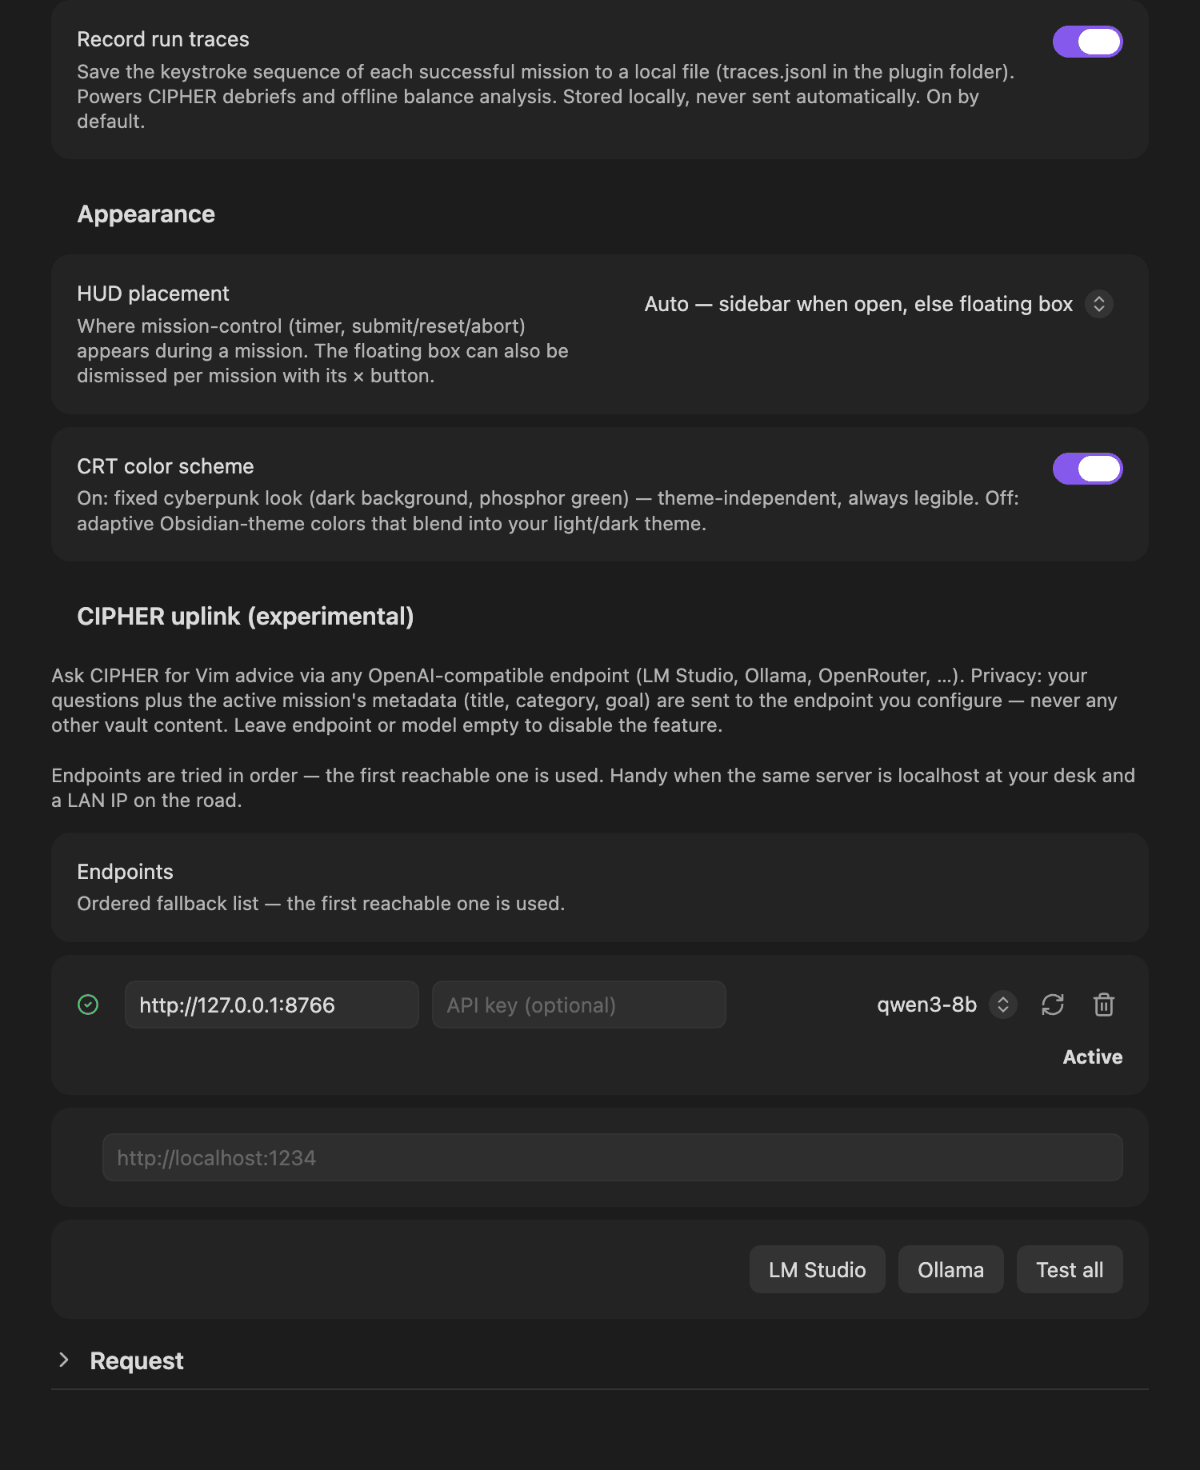
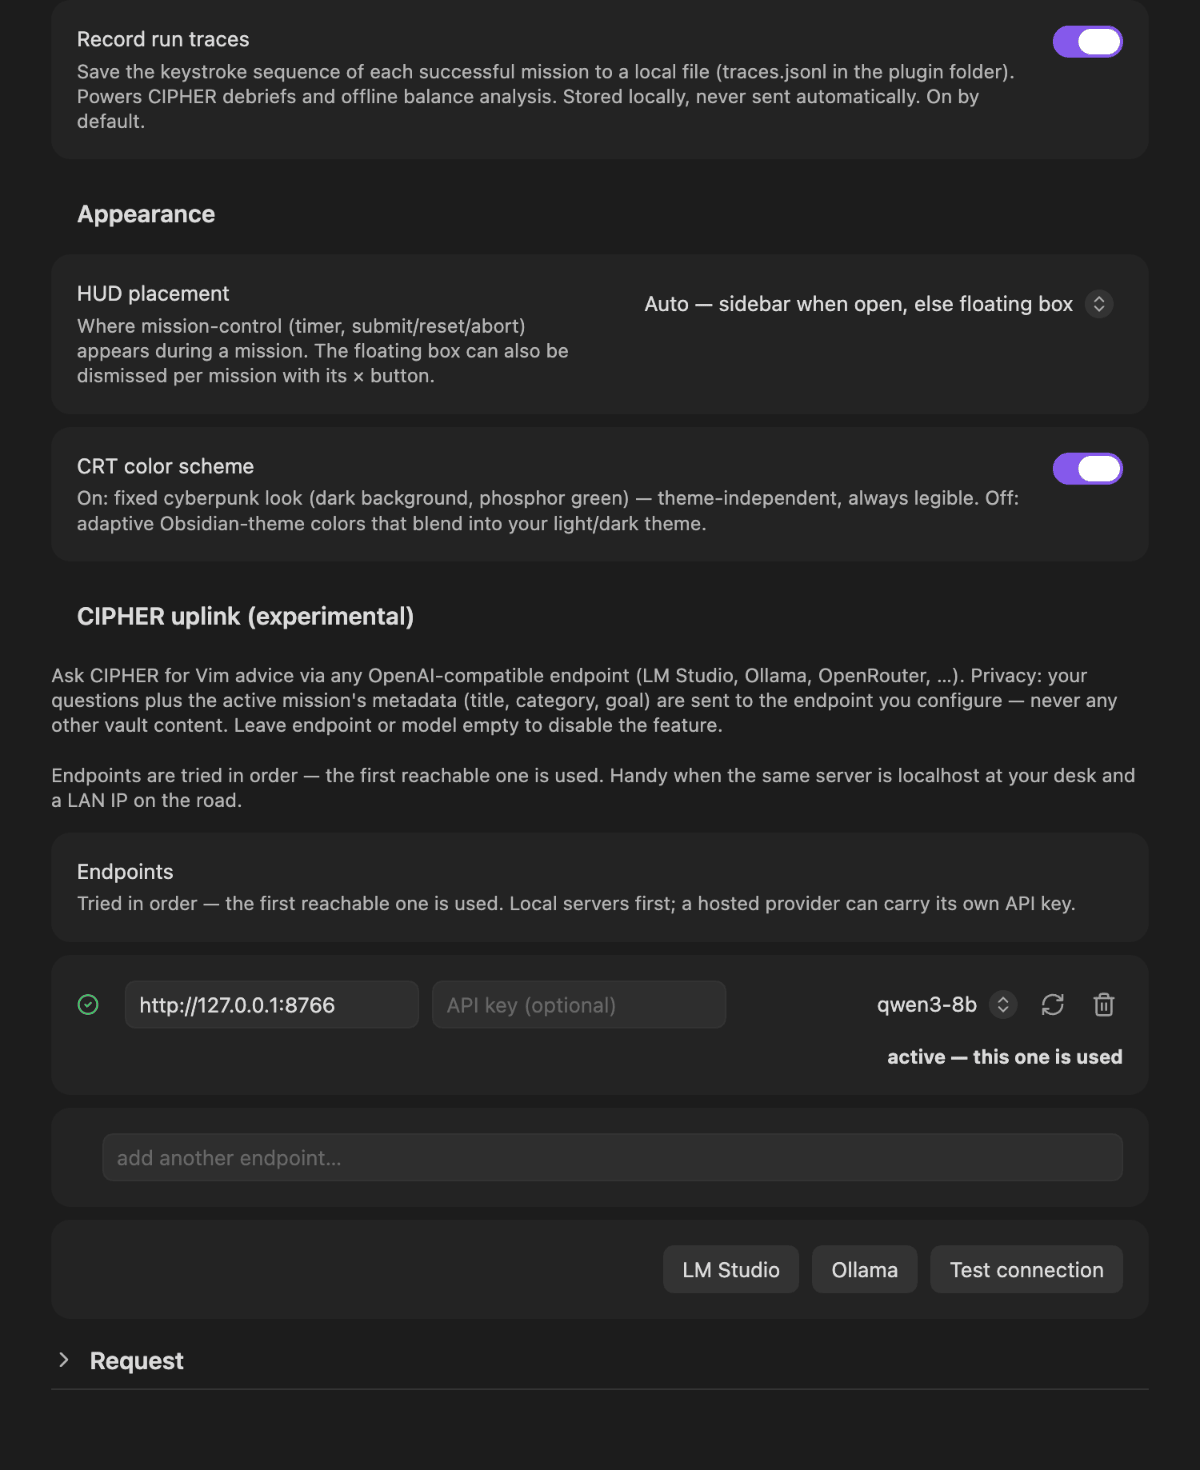
docs(readme): settings.png nach dem Verbindungs-Tausch neu aufgenommen, effectiveModel-Verweise bereinigt

diff --git a/test/settings.test.ts b/test/settings.test.ts
@@ -32,8 +32,8 @@ describe('LLM settings', () => {
   });
 
   it('stays unconfigured when even one endpoint carries no model of its own', () => {
-    // There is no global fallback any more (model belongs on the endpoint row, per
-    // code-kit's effectiveModel deprecation) — a mixed list with one bare endpoint reads
+    // There is no global fallback any more (model belongs on the endpoint row; code-kit
+    // 0.16.0 removed the old effectiveModel fallback) — a mixed list with one bare endpoint reads
     // as unconfigured, same as before the migration.
     expect(isLlmConfigured({
       llmEndpoints: [{ url: 'http://a:1', model: 'qwen3' }, { url: 'http://b:2' }],

diff --git a/docs/images/README.md b/docs/images/README.md
@@ -17,7 +17,7 @@ Erzeugt von `npm run shots`, geprüft von `npm run shots:check`
 | `reader.png` | feature | README, README.de | Ein geöffnetes Artefakt im Reader: gerendertes Markdown, der ASCII-Kopf als **geschlossener Rahmen**. Der Reader muss denselben Grund tragen wie der Hub dahinter — ein Bild, auf dem er dem Theme statt dem CRT-Schema folgt, ist als Beleg wertlos. |
 | `briefing.png` | feature | README, README.de | Das Briefing-Modal vor dem Missionsstart: CIPHERs Ansprache **vollständig lesbar**, der Knopf `▶ BEGIN MISSION` sichtbar. Aufgenommen an **M-01**, nicht an M-05: dessen Briefing trägt einen langen Log-Auszug, der das Modal über die Fensterhöhe schiebt (2026-08-16 gemessen). Dass der DIRECTIVE-Block unten angeschnitten ist, ist in Ordnung — das Modal scrollt, und der Charakter des Spiels steckt in der CIPHER-Passage. |
 | `guide.png` | feature | README, README.de | Der GUIDE-Tab mit **aktiver Suche**: ein Suchbegriff im Feld und die gefilterte Trefferliste. Ein ungefiltertes Cheatsheet zeigt nicht, dass es durchsuchbar ist. |
-| `settings.png` | feature | README, README.de | Der Einstellungen-Tab ab dem Abschnitt **Appearance**: HUD-Platzierung, CRT-Farbschema, darunter der Abschnitt CIPHER uplink mit einem aktiven Endpunkt samt Modell. Der Tab ist länger als jeder Bildschirm (949 px gemessen), deshalb zeigt das Bild nicht auch den Missionsordner. Ab Obsidian 1.13 sind die Einstellungen ein **eigenes Fenster ohne Workspace** (in der Zweitinstanz ein Pop-out); der Treiber verbindet sich dafür ein zweites Mal (`attachTo("settings", …)`). |
+| `settings.png` | feature | README, README.de | Der Einstellungen-Tab ab dem Abschnitt **Appearance**: HUD-Platzierung, CRT-Farbschema, darunter der Abschnitt CIPHER uplink mit der Kit-Endpunkt-Liste (ein aktiver Endpunkt samt Modell) und dem eingeklappten Anfrage-Abschnitt. Neu aufgenommen nach dem Verbindungs-Tausch (Welle 15). Der Tab ist länger als jeder Bildschirm (949 px gemessen), deshalb zeigt das Bild nicht auch den Missionsordner. Ab Obsidian 1.13 sind die Einstellungen ein **eigenes Fenster ohne Workspace** (in der Zweitinstanz ein Pop-out); der Treiber verbindet sich dafür ein zweites Mal (`attachTo("settings", …)`). |
 | `uplink.png` | feature | README, README.de | Der UPLINK-Tab mit einem CIPHER-Wortwechsel — Frage des Spielers, Antwort in der Rolle. Der Treiber startet dafür einen **Fake-Endpunkt** (`node:http`, Port 8766, feste generische Antwort): die Oberfläche ist echt, nur die Worte sind festgelegt. |
 | `hero-demo.gif` | hero-video | README, README.de | Die Hero-Demo als Komposition aus clipwerk (`projects/neurovim-hero`, Commit 785096f, Storyboard v2): die Aufnahme `m08-hero` auf dem Grund von birds of yore, Zoom 2,2× auf die Zeile bei `ESC`, Tastenkappen für `ESC` · `3w` · `ciw` aus dem Eingabe-Log, Tippen `midnight` mit Rampe 1,5×, eine Sekunde Stand, Schleife. Am Ende liest die Zeile `Once upon a midnight dreary, …`, das HUD zeigt 15 keys und 33/45 lines. 800×450, 20 fps, 9 s, ≤ 2048 KB; `hero-demo.mp4` daneben mit demselben Inhalt (D13). Quelle der Aufnahme: `out/sequenz/m08-hero/` (Rezept `npm run sequenz`, Herkunft in `sequenz.json`), nicht im Repo; die Rohfassung des Rezepts (hero-roh, siehe § Sequenzen) ist nur Platzhalter. |
 

diff --git a/docs/SMOKE.md b/docs/SMOKE.md
@@ -120,7 +120,7 @@ bleibt unberührt, der Stub wird im `finally` zurückgebaut.
 
 | Prüfpunkt | Was er misst |
 |---|---|
-| R3-0 Modellwahl erreicht den Transport | `effectiveModel(ep, settings.llmModel)` kommt als `cfg.model` beim Client an |
+| R3-0 Die Frage erreicht die Verbindung | `llm.complete` bekommt die Frage des Spielers als user-Nachricht (das Modell am Draht misst N2-1) |
 | R3-1 CUT behält das Teilergebnis und gibt die Eingabe frei | Der abgebrochene Turn behält seine Identität, hängt `— signal cut` an und räumt `busy` ab |
 | R3-2 RST leert den Kanal | Der enteignete Turn schreibt nicht mehr in den geleerten Verlauf |
 | R3-3 ein voller Turn landet als Antwort | Genau zwei Zeilen: `user`, `assistant` |

diff --git a/CHANGELOG.md b/CHANGELOG.md
@@ -5,6 +5,10 @@ All notable changes to this project are documented here. Format loosely follows
 
 ## [Unreleased]
 
+### Documentation
+
+- Re-captured the settings screenshot to show the shared endpoint list; refreshed two stale test/smoke doc references to the removed `effectiveModel`.
+
 ## [0.13.0] — 2026-10-09
 
 ### Changed
